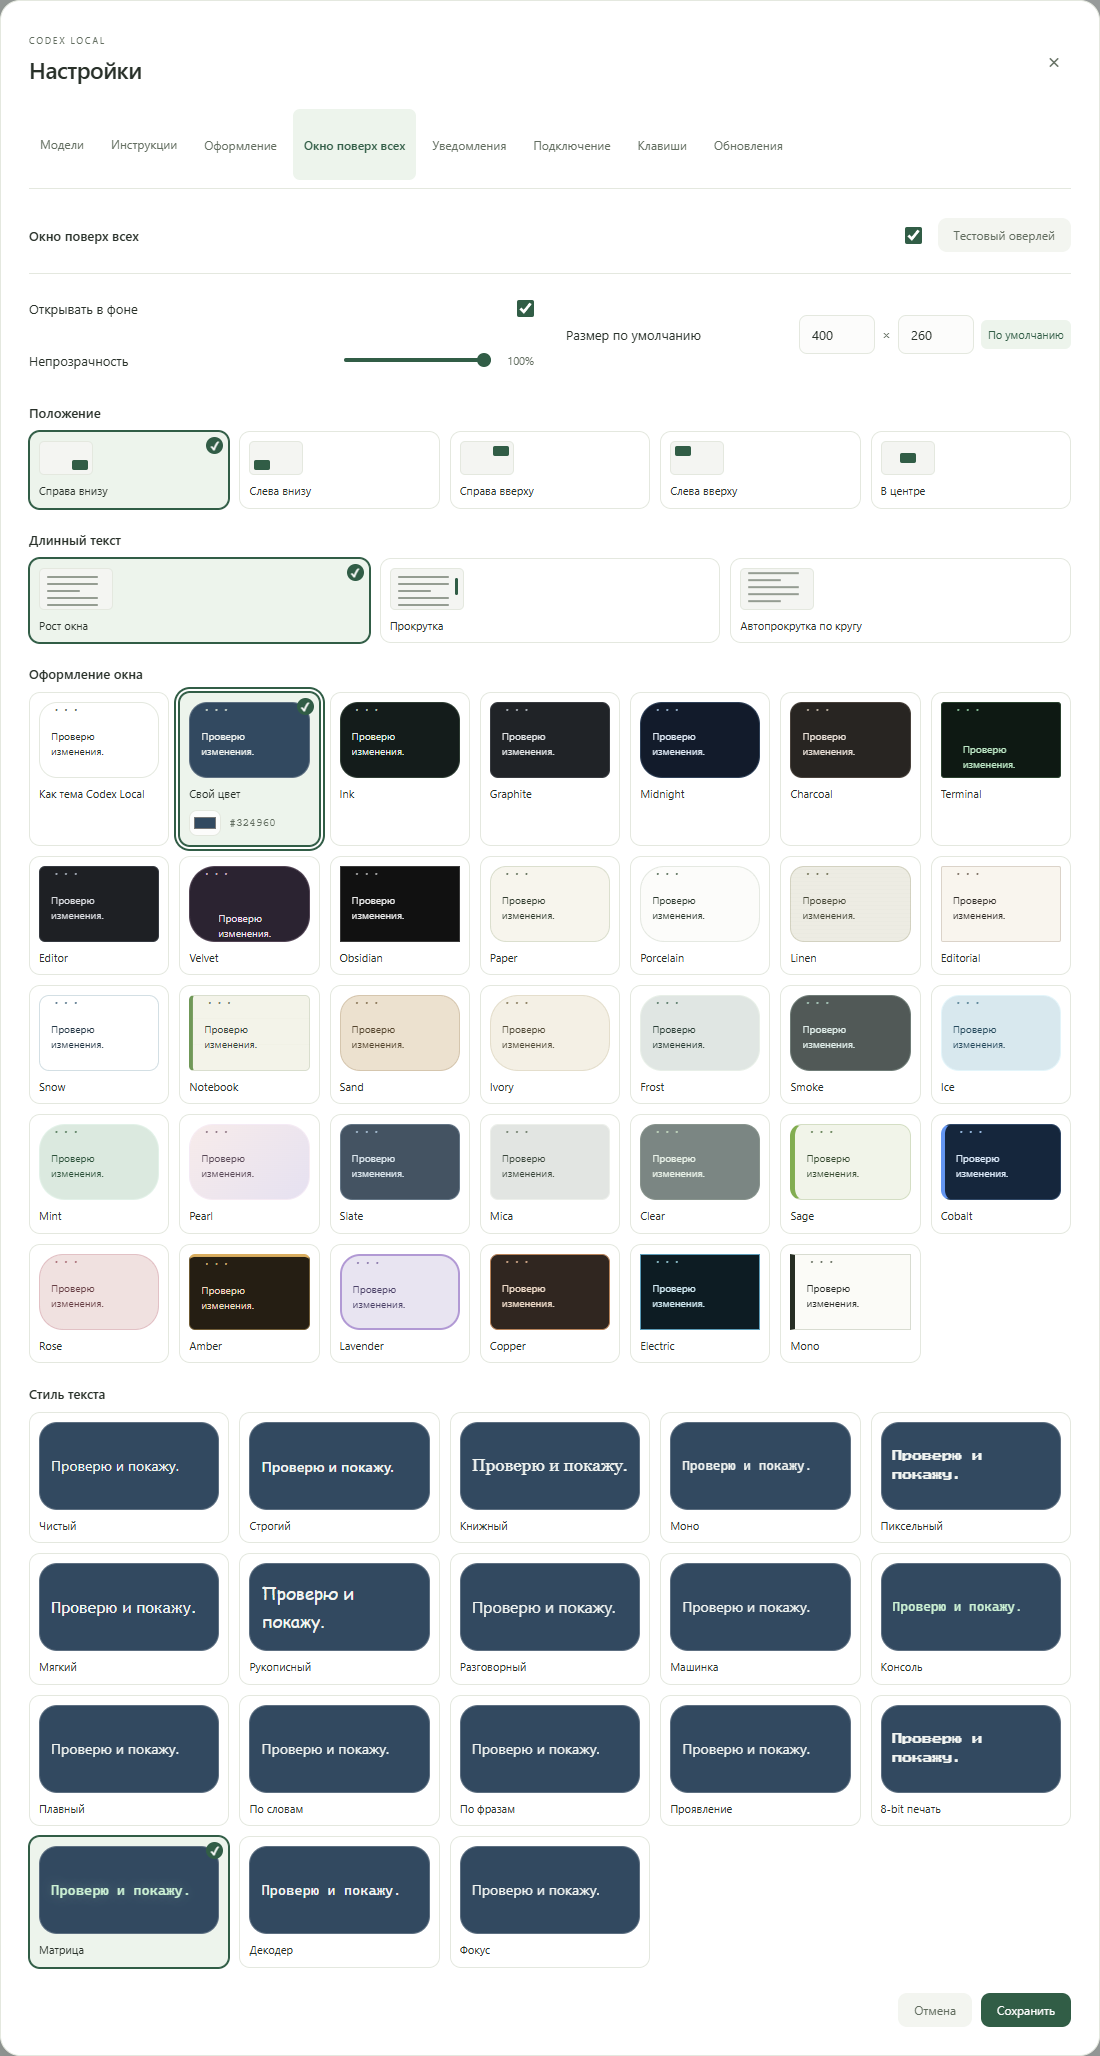
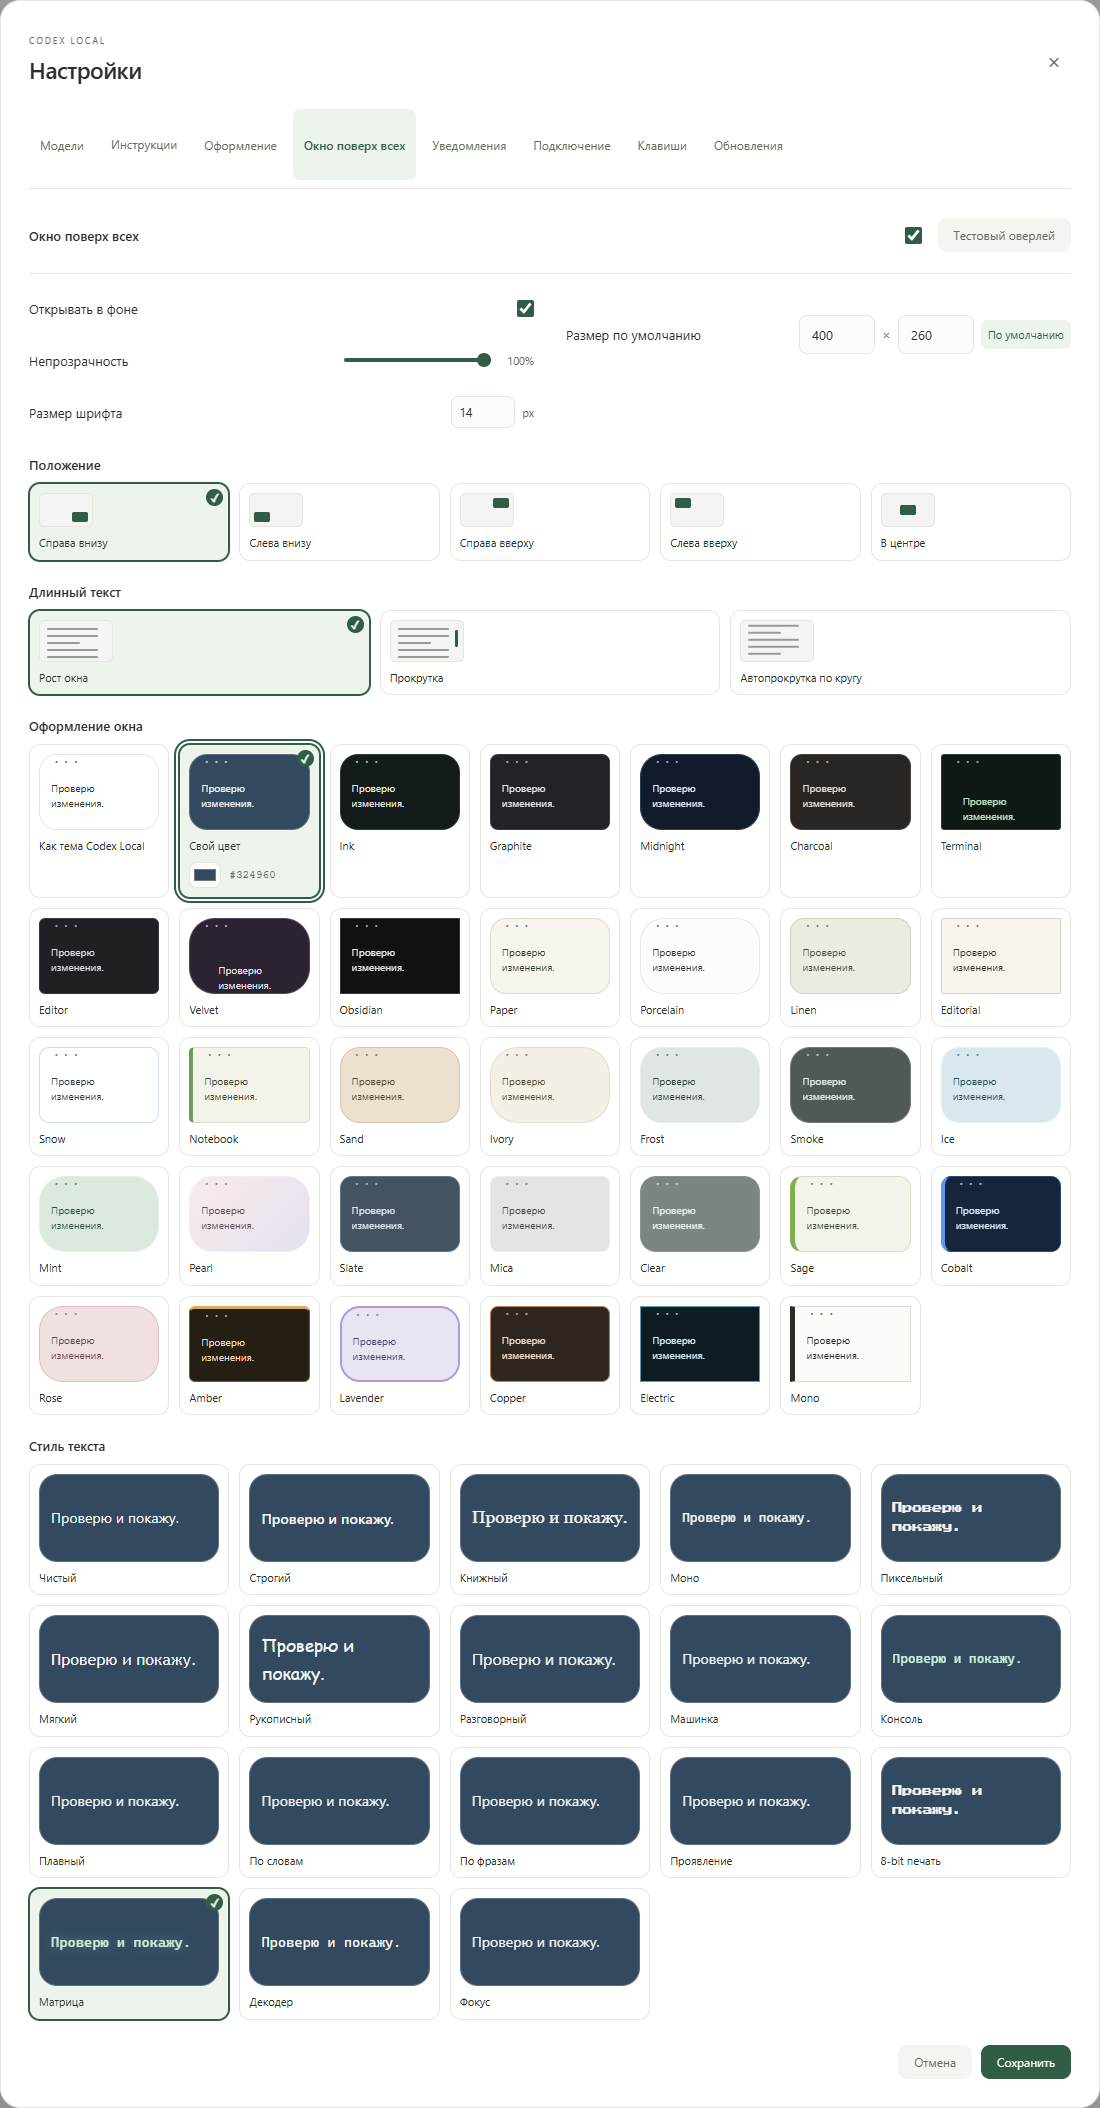
Update overlay project header and font size documentation for 0.8.36 [skip ci]

diff --git a/README.md b/README.md
@@ -14,7 +14,7 @@ This repository contains **installers and documentation**. Application source co
 
 ![Codex Local desktop workspace with projects, a launch checklist and usage limits](assets/screenshots/en/workspace-light.png)
 
-<p align="center"><sub>Codex Local 0.8.35 · Actual interface with demo projects and conversations.</sub></p>
+<p align="center"><sub>Codex Local 0.8.36 · Actual interface with demo projects and conversations.</sub></p>
 
 ## Features
 
@@ -41,9 +41,9 @@ The interface is available in English and Russian. Choose your language in **Set
 
 Open the window from the chat header. On Windows it stays above other apps and can open automatically when Codex Local is minimized or in the background. Pin it to prevent accidental dragging. The arrow switches between active and unread chats; viewing the window does not mark answers as read.
 
-The window shows the full latest progress message and a short status with a spinner: Thinking, Working on the task or Optimizing conversation. Commands and their output are hidden. When a task finishes, it displays **Work finished**; the **Open chat** icon beside Close is always available.
+The header shows the project name; the window shows the full latest progress message and a short status with a spinner: Thinking, Working on the task or Optimizing conversation. New fragments appear smoothly, with the blinking caret at the end of the text. Commands and their output are hidden. When a task finishes, it displays **Work finished**; the **Open chat** icon beside Close is always available.
 
-In **Settings → Always-on-top window**, choose text and window styles from visual cards. **Test overlay** opens a real window using your draft size and appearance; **Default** restores the width and height to 400 × 260. Long text can scroll manually, scroll automatically from top to bottom in a loop, or grow the window within the screen. Hover pauses automatic scrolling for manual reading; moving away resumes it. The color picker appears directly inside the Custom color card. Set the theme color, position, opacity and automatic opening there too. Disabling the feature hides the chat button and detailed settings. Supported browsers offer manual opening with Picture-in-Picture.
+In **Settings → Always-on-top window**, choose text and window styles from visual cards. **Test overlay** opens a real window using your draft size and appearance; **Default** restores the width and height to 400 × 260. Font size can be set from 10 to 32 px. Long text can scroll manually, scroll automatically from top to bottom in a loop, or grow the window within the screen. Hover pauses automatic scrolling for manual reading; moving away resumes it. The color picker appears directly inside the Custom color card. Set the theme color, position, opacity and automatic opening there too. Disabling the feature hides the chat button and detailed settings. Supported browsers offer manual opening with Picture-in-Picture.
 
 | Progress window | Compact settings |
 | --- | --- |
